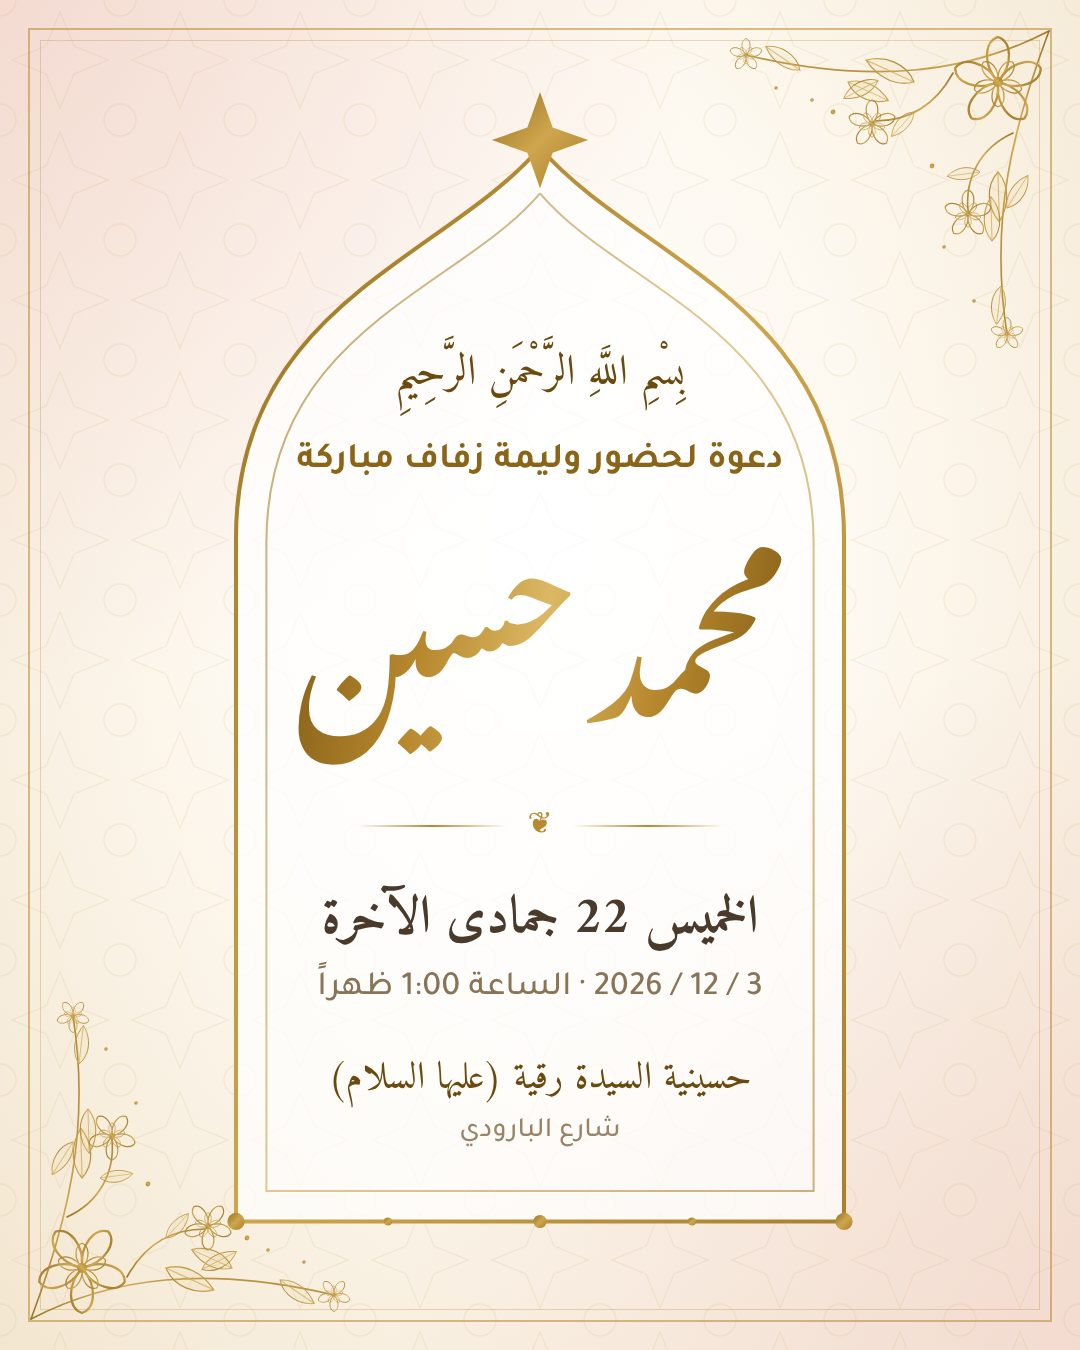
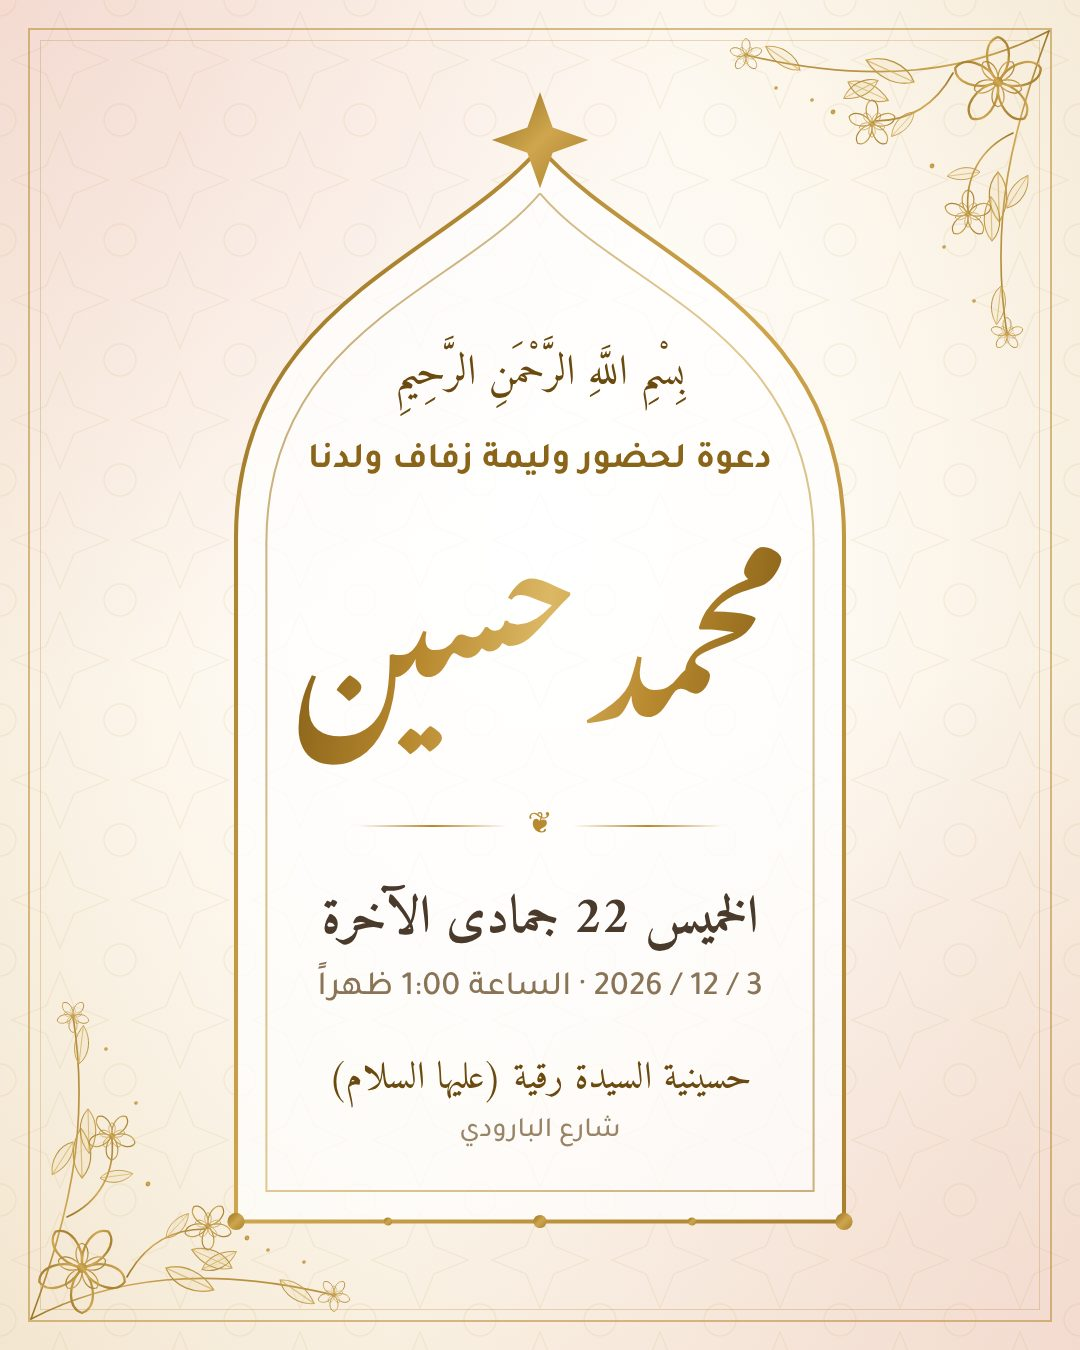
Add "ولدنا" to the invitation sentence and the cover image
Claude-Session: https://claude.ai/code/session_01Mv4zqY3qG86wkaid1SoCNR

Changed region(s): [[0.275, 0.3111, 0.7333, 0.3733]]

diff --git a/index.html b/index.html
@@ -9,15 +9,15 @@
 <meta property="og:url" content="https://n77al.github.io/M/">
 <meta property="og:title" content="دعوة وليمة زفاف — محمد حسين">
 <meta property="og:description" content="الخميس 22 جمادى الآخرة · 3/12 · الساعة 1:00 ظهراً · حسينية السيدة رقية (عليها السلام). يسعدنا حضوركم.">
-<meta property="og:image" content="https://n77al.github.io/M/cover.jpg">
-<meta property="og:image:secure_url" content="https://n77al.github.io/M/cover.jpg">
+<meta property="og:image" content="https://n77al.github.io/M/cover.jpg?v=2">
+<meta property="og:image:secure_url" content="https://n77al.github.io/M/cover.jpg?v=2">
 <meta property="og:image:type" content="image/jpeg">
 <meta property="og:image:width" content="1080">
 <meta property="og:image:height" content="1350">
-<meta property="og:image:alt" content="دعوة لحضور وليمة زفاف محمد حسين">
+<meta property="og:image:alt" content="دعوة لحضور وليمة زفاف ولدنا محمد حسين">
 <meta property="og:locale" content="ar_IQ">
 <meta name="twitter:card" content="summary_large_image">
-<meta name="twitter:image" content="https://n77al.github.io/M/cover.jpg">
+<meta name="twitter:image" content="https://n77al.github.io/M/cover.jpg?v=2">
 <link rel="preconnect" href="https://fonts.googleapis.com">
 <link rel="preconnect" href="https://fonts.gstatic.com" crossorigin>
 <link href="https://fonts.googleapis.com/css2?family=Amiri:wght@400;700&family=Noto+Nastaliq+Urdu:wght@500;600&family=Tajawal:wght@300;400;500;700&display=swap" rel="stylesheet">
@@ -545,7 +545,7 @@ const CONFIG = {
       <div class="divider"><span></span>✦<span></span></div>
       <h3 class="inv-title gold">دعوة لحضور وليمة زفاف مباركة</h3>
       <p class="inv-text">
-        <span class="inv-big">يسرنا ويسعدنا أن ندعوكم لحضور وليمة زفاف</span>
+        <span class="inv-big">يسرنا ويسعدنا أن ندعوكم لحضور وليمة زفاف ولدنا</span>
         <strong class="groom">محمد حسين</strong>
         <span class="inv-father">نجل الحاج <strong>حيدر عبدالمهدي هندي</strong></span>
         <span class="inv-big">ومشاركتنا فرحة العمر.</span>
